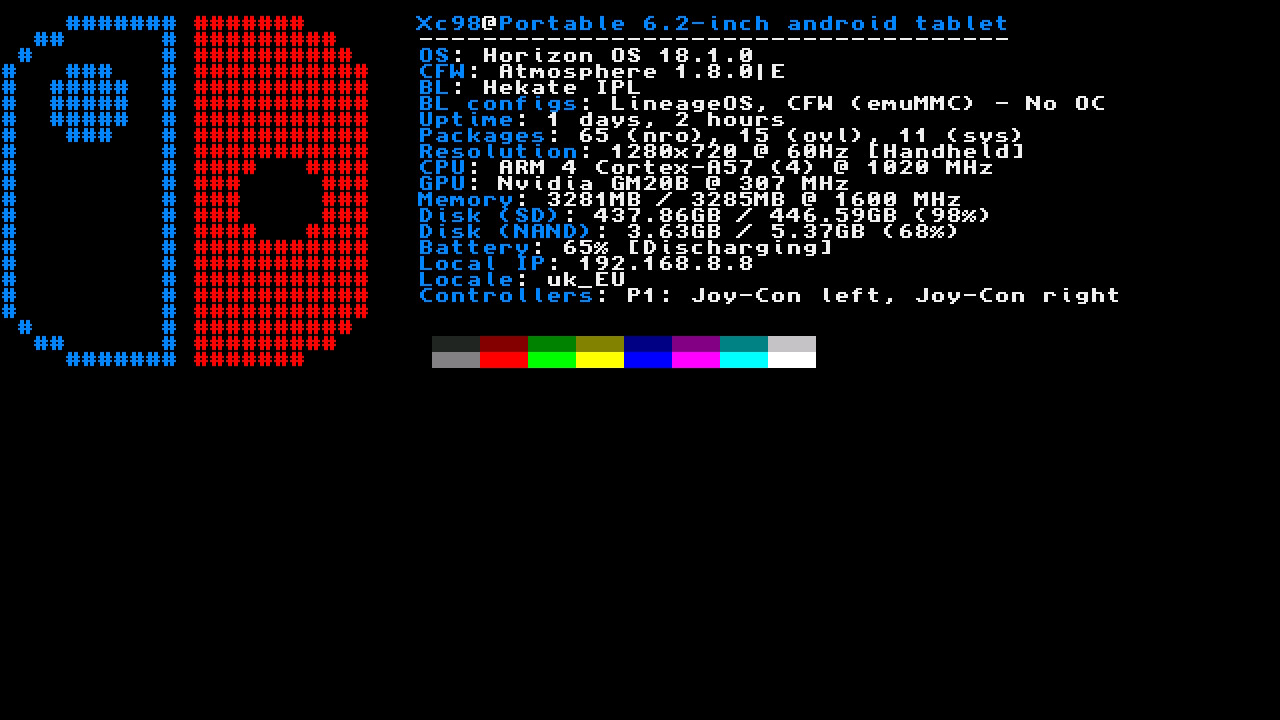
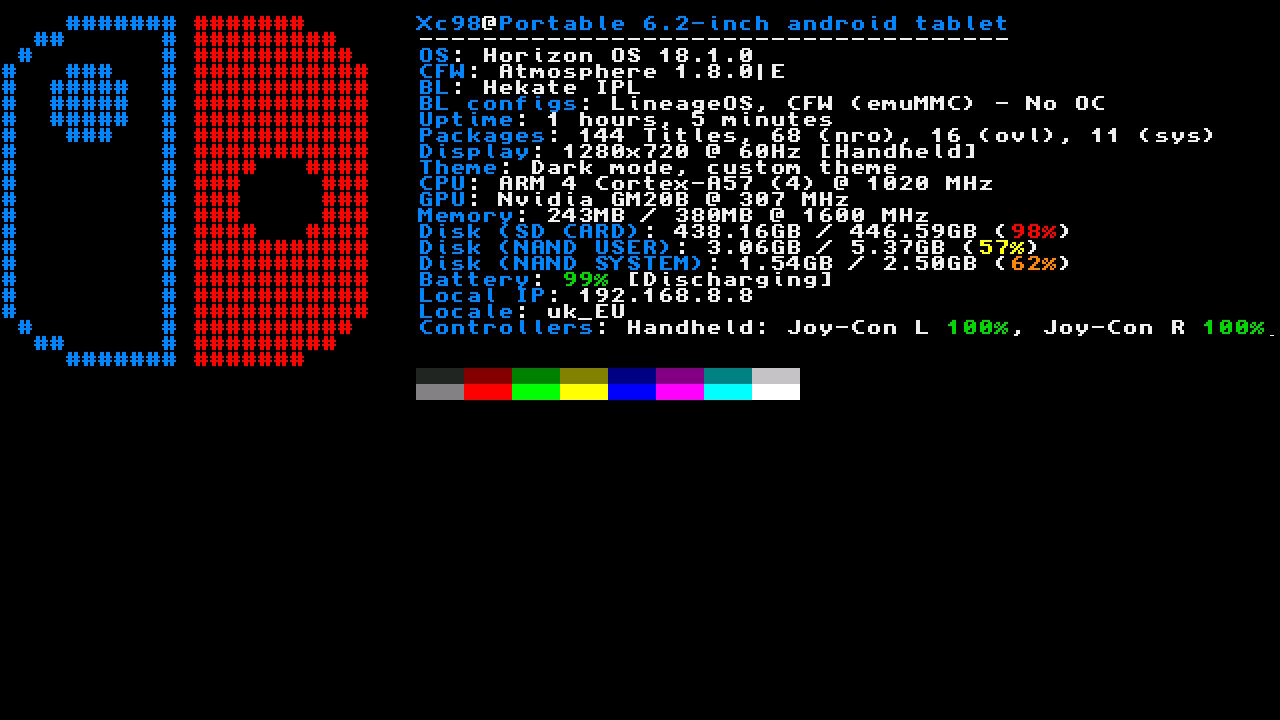
print total titles and nand system, update screenshot

diff --git a/src/main.c b/src/main.c
@@ -345,16 +345,18 @@ void updateAscii() {
     printf(CONSOLE_ESC(14;27H));
     printf("%sMemory\e[38;5;255m:", accentColor);
     printf(CONSOLE_ESC(15;27H));
-    printf("%sDisk (SD)\e[38;5;255m:", accentColor);
+    printf("%sDisk (SD CARD)\e[38;5;255m:", accentColor);
     printf(CONSOLE_ESC(16;27H));
-    printf("%sDisk (NAND)\e[38;5;255m:", accentColor);
+    printf("%sDisk (NAND USER)\e[38;5;255m:", accentColor);
     printf(CONSOLE_ESC(17;27H));
-    printf("%sBattery\e[38;5;255m:", accentColor);
+    printf("%sDisk (NAND SYSTEM)\e[38;5;255m:", accentColor);
     printf(CONSOLE_ESC(18;27H));
-    printf("%sLocal IP\e[38;5;255m:", accentColor);
+    printf("%sBattery\e[38;5;255m:", accentColor);
     printf(CONSOLE_ESC(19;27H));
-    printf("%sLocale\e[38;5;255m:", accentColor);
+    printf("%sLocal IP\e[38;5;255m:", accentColor);
     printf(CONSOLE_ESC(20;27H));
+    printf("%sLocale\e[38;5;255m:", accentColor);
+    printf(CONSOLE_ESC(21;27H));
     printf("%sControllers\e[38;5;255m:", accentColor);
 }
 void printConfig(const char *filename) {
@@ -375,6 +377,29 @@ void printConfig(const char *filename) {
         }
     }
     fclose(file);
+}
+u32 listTitles() {
+    NsApplicationRecord *records = malloc(sizeof(NsApplicationRecord) * 256);
+    int32_t recordCount = 0;
+    Result rc = nsListApplicationRecord(records, 256, 0, &recordCount);
+    printf(CONSOLE_ESC(0m));
+    consoleUpdate(NULL);
+    if (R_SUCCEEDED(rc)) {
+        for (int i = 0; i < recordCount; i++) {
+            u64 titleId = records[i].application_id;
+            Result rc=0;
+            if (R_SUCCEEDED(rc)) { 
+                rc = fsdevMountSaveData("save", titleId, userAccounts[selectedUser]);
+                // if (R_SUCCEEDED(rc)) {
+                //     fsdevUnmountDevice("save");
+                //     totalApps += 1;
+                //     getTitleName(titleId, recordCount);
+                // }
+            }
+        }
+    }
+    free(records);
+    return recordCount;
 }
 int main(int argc, char **argv) {
     consoleInit(NULL);
@@ -539,8 +564,11 @@ int main(int argc, char **argv) {
     int nroCount = countNroFiles("/switch", 0);
     int ovlCount = countOvlFiles("/switch/.overlays/");
     int sysCount = countSysFolders();
+    nsInitialize();
+    u32 titleCount = listTitles();
+    nsExit();
     printf(CONSOLE_ESC(9;27H));
-    printf("\e[38;5;33mPackages\e[38;5;255m: %d (nro), %d (ovl), %d (sys)", nroCount, ovlCount, sysCount);
+    printf("\e[38;5;33mPackages\e[38;5;255m: %d Titles, %d (nro), %d (ovl), %d (sys)", titleCount, nroCount, ovlCount, sysCount);
     consoleUpdate(NULL);
     // Screen resolution
     AppletOperationMode mode = appletGetOperationMode();        
@@ -616,7 +644,7 @@ int main(int argc, char **argv) {
     double freeSpaceGB = (double)freeSpaceBytes / (1024 * 1024 * 1024);
     double leftSpaceGB = totalSpaceGB - freeSpaceGB;
     printf(CONSOLE_ESC(15;27H));
-    printf("\e[38;5;33mDisk (SD)\e[38;5;255m: %.2fGB / %.2fGB ", leftSpaceGB, totalSpaceGB);
+    printf("\e[38;5;33mDisk (SD CARD)\e[38;5;255m: %.2fGB / %.2fGB ", leftSpaceGB, totalSpaceGB);
     if (leftSpaceGB / totalSpaceGB * 100 < 20) {
         printf("(\e[38;5;40m%.0f%%\e[38;5;255m)", leftSpaceGB / totalSpaceGB * 100);
     } else if (leftSpaceGB / totalSpaceGB * 100 >= 20 && leftSpaceGB / totalSpaceGB * 100 < 40) {
@@ -629,7 +657,7 @@ int main(int argc, char **argv) {
         printf("(\e[38;5;196m%.0f%%\e[38;5;255m)", leftSpaceGB / totalSpaceGB * 100);
     }
     consoleUpdate(NULL);
-    // NAND
+    // NAND USER
     fsInitialize();
     FsFileSystem userFs;
     fsOpenBisFileSystem(&userFs, FsBisPartitionId_User, "");
@@ -642,7 +670,7 @@ int main(int argc, char **argv) {
     fsFsClose(&userFs);
     fsExit();
     printf(CONSOLE_ESC(16;27H));
-    printf("\e[38;5;33mDisk (NAND)\e[38;5;255m: %.2fGB / %.2fGB ", leftSpaceGB2, totalSpaceGB2);
+    printf("\e[38;5;33mDisk (NAND USER)\e[38;5;255m: %.2fGB / %.2fGB ", leftSpaceGB2, totalSpaceGB2);
     if (leftSpaceGB2 / totalSpaceGB2 * 100 < 20) {
         printf("(\e[38;5;40m%.0f%%\e[38;5;255m)", leftSpaceGB2 / totalSpaceGB2 * 100);
     } else if (leftSpaceGB2 / totalSpaceGB2 * 100 >= 20 && leftSpaceGB2 / totalSpaceGB2 * 100 < 40) {
@@ -655,11 +683,36 @@ int main(int argc, char **argv) {
         printf("(\e[38;5;196m%.0f%%\e[38;5;255m)", leftSpaceGB2 / totalSpaceGB2 * 100);
     }
     consoleUpdate(NULL);
+    // NAND SYSTEM
+    fsInitialize();
+    fsOpenBisFileSystem(&userFs, FsBisPartitionId_System, "");
+    s64 totalSpaceBytes3, freeSpaceBytes3;
+    fsFsGetTotalSpace(&userFs, "/", &totalSpaceBytes3);
+    fsFsGetFreeSpace(&userFs, "/", &freeSpaceBytes3);
+    double totalSpaceGB3 = (double)totalSpaceBytes3 / (1024 * 1024 * 1024);
+    double freeSpaceGB3 = (double)freeSpaceBytes3 / (1024 * 1024 * 1024);
+    double leftSpaceGB3 = totalSpaceGB3 - freeSpaceGB3;
+    fsFsClose(&userFs);
+    fsExit();
+    printf(CONSOLE_ESC(17;27H));
+    printf("\e[38;5;33mDisk (NAND SYSTEM)\e[38;5;255m: %.2fGB / %.2fGB ", leftSpaceGB3, totalSpaceGB3);
+    if (leftSpaceGB3 / totalSpaceGB3 * 100 < 20) {
+        printf("(\e[38;5;40m%.0f%%\e[38;5;255m)", leftSpaceGB3 / totalSpaceGB3 * 100);
+    } else if (leftSpaceGB3 / totalSpaceGB3 * 100 >= 20 && leftSpaceGB3 / totalSpaceGB3 * 100 < 40) {
+        printf("(\e[38;5;148m%.0f%%\e[38;5;255m)", leftSpaceGB3 / totalSpaceGB3 * 100);
+    } else if (leftSpaceGB3 / totalSpaceGB3 * 100 >= 40 && leftSpaceGB3 / totalSpaceGB3 * 100 < 60) {
+        printf("(\e[38;5;226m%.0f%%\e[38;5;255m)", leftSpaceGB3 / totalSpaceGB3 * 100);
+    } else if (leftSpaceGB3 / totalSpaceGB3 * 100 >= 60 && leftSpaceGB3 / totalSpaceGB3 * 100 < 80) {
+        printf("(\e[38;5;208m%.0f%%\e[38;5;255m)", leftSpaceGB3 / totalSpaceGB3 * 100);
+    } else if (leftSpaceGB3 / totalSpaceGB3 * 100 >= 80) {
+        printf("(\e[38;5;196m%.0f%%\e[38;5;255m)", leftSpaceGB3 / totalSpaceGB3 * 100);
+    }
+    consoleUpdate(NULL);
     // Battery
     psmInitialize();
     u32 batteryCharge;
     psmGetBatteryChargePercentage(&batteryCharge);
-    printf(CONSOLE_ESC(17;27H));
+    printf(CONSOLE_ESC(18;27H));
     printf("\e[38;5;33mBattery\e[38;5;255m: ");
     if (batteryCharge >= 80) {
         printf("\e[38;5;40m%d%%\e[38;5;255m", batteryCharge);
@@ -685,14 +738,14 @@ int main(int argc, char **argv) {
     NifmInternetConnectionStatus status;
     rc = nifmGetInternetConnectionStatus(NULL, NULL, &status);
     if (R_FAILED(rc)) {
-        printf(CONSOLE_ESC(18;27H));
+        printf(CONSOLE_ESC(19;27H));
         printf("\e[38;5;33mLocal IP\e[38;5;255m: Not connected!");
     } else if (status == NifmInternetConnectionStatus_Connected) {
         u32 local_ip = gethostid();
         struct in_addr addr;
         addr.s_addr = local_ip;
         char* ip_str = inet_ntoa(addr);
-        printf(CONSOLE_ESC(18;27H));
+        printf(CONSOLE_ESC(19;27H));
         printf("\e[38;5;33mLocal IP\e[38;5;255m: %s", ip_str);
     } else {
         printf("\x1b[20;16HNo active network connection");
@@ -706,11 +759,11 @@ int main(int argc, char **argv) {
     rc = setMakeLanguage(languageCode, &makeLanguage);
     SetRegion regionCode = 0;
     rc = setGetRegionCode(&regionCode);
-    printf(CONSOLE_ESC(19;27H));
+    printf(CONSOLE_ESC(20;27H));
     printf("\e[38;5;33mLocale\e[38;5;255m: %s_%s\n", GetLanguageName(makeLanguage), getRegionName(regionCode));
     setExit();
     //Controllers
-    printf(CONSOLE_ESC(20;27H));
+    printf(CONSOLE_ESC(21;27H));
     printf("\e[38;5;33mControllers\e[38;5;255m: ");
     for (int i = 0; i < 8; i++) {
         char name[16];
@@ -720,7 +773,7 @@ int main(int argc, char **argv) {
     printController(hidGetNpadDeviceType(HidNpadIdType_Other), "Other", HidNpadIdType_Other);
     printController(hidGetNpadDeviceType(HidNpadIdType_Handheld), "Handheld", HidNpadIdType_Handheld);
     if (anycontroller == false){
-        printf(CONSOLE_ESC(21;40H));
+        printf(CONSOLE_ESC(22;40H));
         printf("None");
     }
     // Fancy color blocks
